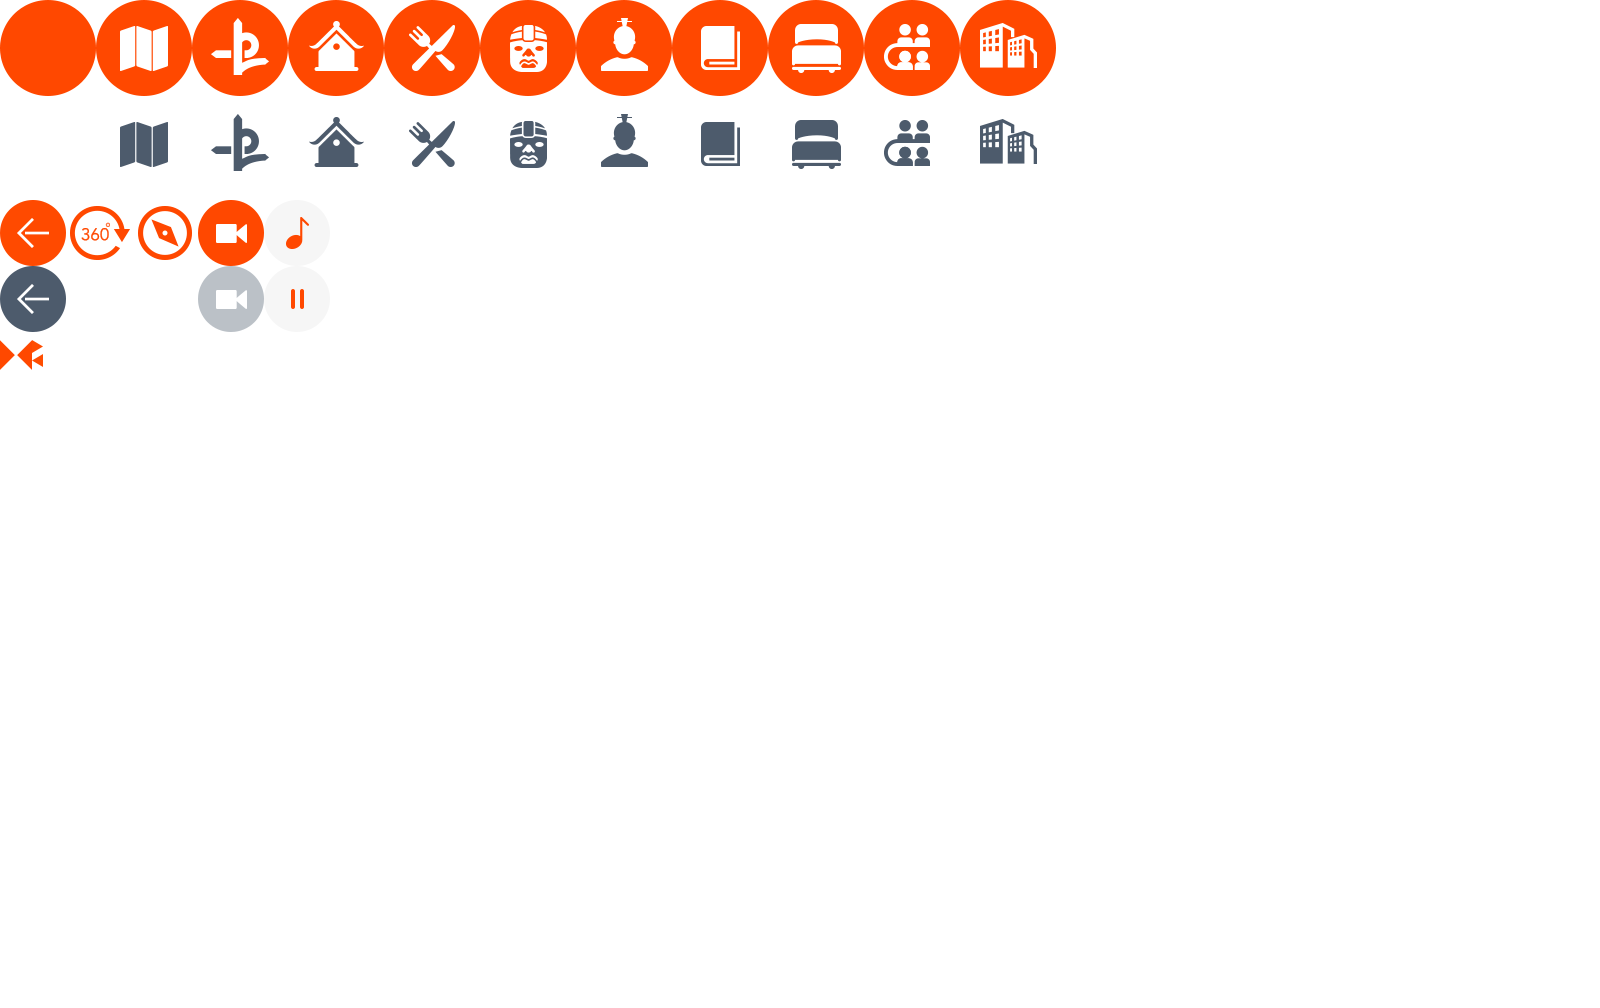
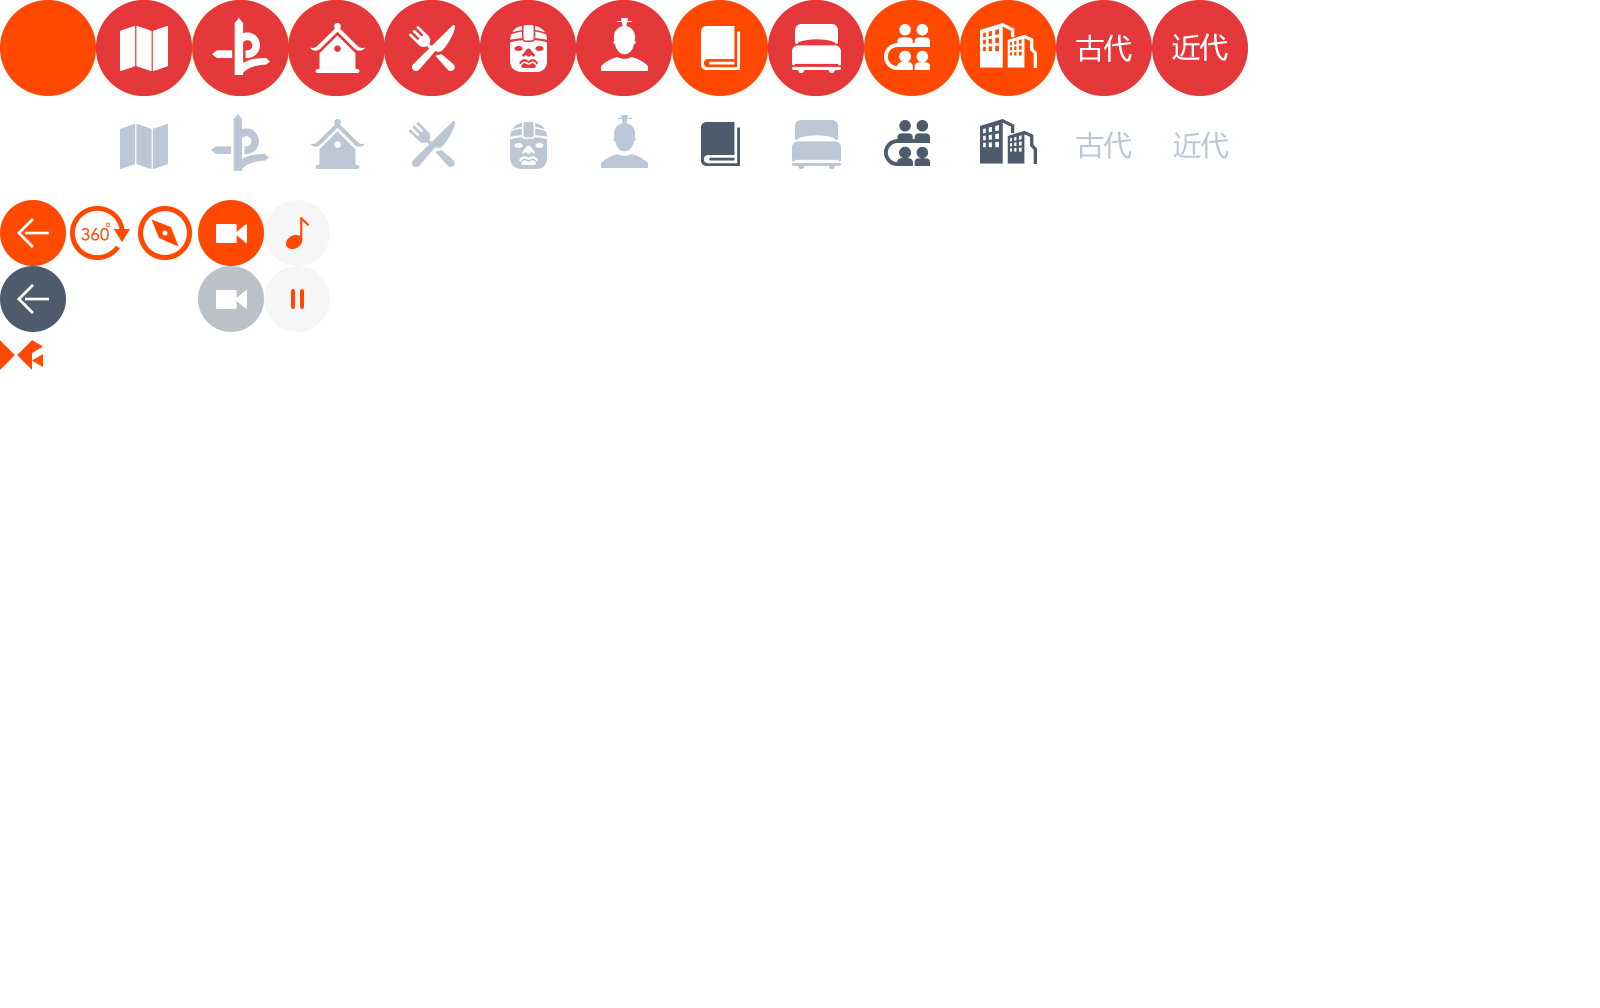
增加切图

diff --git a/luna-web/src/main/webapp/styles/pages_icon.css b/luna-web/src/main/webapp/styles/pages_icon.css
@@ -145,5 +145,120 @@
     background-size: 100% 100%;
 }
 
+.icon-list {
+    width: 48px;
+    height: 48px;
+}
 
+.current .icon-itembg,
+.current.icon-itembg {
+    background-position: 0px 0px;
+    color: #fff;
+}
+
+.icon-profile {
+    background-position: -48px -48px;
+}
+
+.current .icon-profile,
+.current.icon-profile {
+    background-position: -48px 0px;
+}
+
+.icon-traffic {
+    background-position: -96px -48px;
+}
+
+.current .icon-traffic,
+.current.icon-traffic {
+    background-position: -96px 0px;
+}
+
+.icon-celebrity {
+    background-position: -288px -48px;
+}
+
+.current .icon-celebrity,
+.current.icon-celebrity {
+    background-position: -288px 0px;
+}
+
+.icon-nation {
+    background-position: -240px -48px;
+}
+
+.current .icon-nation,
+.current.icon-nation {
+    background-position: -240px 0px;
+}
+
+.icon-culture {
+    background-position: -336px -48px;
+}
+
+.current .icon-culture,
+.current.icon-culture {
+    background-position: -336px 0px;
+}
+
+.icon-spots {
+    background-position: -144px -48px;
+}
+
+.current .icon-spots,
+.current.icon-spots {
+    background-position: -144px 0px;
+}
+
+.icon-food {
+    background-position: -192px -48px;
+}
+
+.current .icon-food,
+.current.icon-food {
+    background-position: -192px 0px;
+}
+
+.icon-hotel {
+    background-position: -384px -48px;
+}
+
+.current .icon-hotel,
+.current.icon-hotel {
+    background-position: -384px 0px;
+}
+
+.icon-activity {
+    background-position: -432px -48px;
+}
+
+.current .icon-activity,
+.current.icon-activity {
+    background-position: -432px 0px;
+}
+
+.icon-area {
+    background-position: -480px -48px;
+}
+
+.current .icon-area,
+.current.icon-area {
+    background-position: -480px 0px;
+}
+.icon-ancient {
+    background-position: -528px -48px;
+}
+
+.current .icon-ancient,
+.current.icon-ancient {
+    background-position: -528px 0px;
+}
+.icon-modern {
+    background-position: -576px -48px;
+}
+
+.current .icon-modern,
+.current.icon-modern {
+    background-position: -576px 0px;
+}
 /* Tab Icon End*/

diff --git a/luna-web/src/main/webapp/styles/pages.css b/luna-web/src/main/webapp/styles/pages.css
@@ -949,106 +949,6 @@ a.wj-img-clc {
     background-color: grue;
 }
 
-.icon-list {
-    width: 48px;
-    height: 48px;
-}
-
-.current .icon-itembg,
-.current.icon-itembg {
-    background-position: 0px 0px;
-    color: #fff;
-}
-
-.icon-profile {
-    background-position: -48px -48px;
-}
-
-.current .icon-profile,
-.current.icon-profile {
-    background-position: -48px 0px;
-}
-
-.icon-traffic {
-    background-position: -96px -48px;
-}
-
-.current .icon-traffic,
-.current.icon-traffic {
-    background-position: -96px 0px;
-}
-
-.icon-celebrity {
-    background-position: -288px -48px;
-}
-
-.current .icon-celebrity,
-.current.icon-celebrity {
-    background-position: -288px 0px;
-}
-
-.icon-nation {
-    background-position: -240px -48px;
-}
-
-.current .icon-nation,
-.current.icon-nation {
-    background-position: -240px 0px;
-}
-
-.icon-culture {
-    background-position: -336px -48px;
-}
-
-.current .icon-culture,
-.current.icon-culture {
-    background-position: -336px 0px;
-}
-
-.icon-spots {
-    background-position: -144px -48px;
-}
-
-.current .icon-spots,
-.current.icon-spots {
-    background-position: -144px 0px;
-}
-
-.icon-food {
-    background-position: -192px -48px;
-}
-
-.current .icon-food,
-.current.icon-food {
-    background-position: -192px 0px;
-}
-
-.icon-hotel {
-    background-position: -384px -48px;
-}
-
-.current .icon-hotel,
-.current.icon-hotel {
-    background-position: -384px 0px;
-}
-
-.icon-activity {
-    background-position: -432px -48px;
-}
-
-.current .icon-activity,
-.current.icon-activity {
-    background-position: -432px 0px;
-}
-
-.icon-area {
-    background-position: -480px -48px;
-}
-
-.current .icon-area,
-.current.icon-area {
-    background-position: -480px 0px;
-}
 
 .pop-uploadMenuTabIcon .item-wrap{
     width: 400px;

diff --git a/luna-web/src/main/webapp/scripts/page_controller.js b/luna-web/src/main/webapp/scripts/page_controller.js
@@ -724,6 +724,18 @@ function MenuTabController($scope, $rootScope, $http, customerMenuTabIcon) {
             defaultStyle: { bgPosition: ['-384px', '-48px'], bgSize: ['800px', '504px'] },
             currentStyle: { bgPosition: ['-384px', '-0px'], bgSize: ['800px', '504px'] },
         }, {
+            name: '古代',
+            code: 'ancient',
+            type: 'default',
+            defaultStyle: { bgPosition: ['-384px', '-48px'], bgSize: ['800px', '504px'] },
+            currentStyle: { bgPosition: ['-384px', '-0px'], bgSize: ['800px', '504px'] },
+        }, {
+            name: '近代',
+            code: 'modern',
+            type: 'default',
+            defaultStyle: { bgPosition: ['-384px', '-48px'], bgSize: ['800px', '504px'] },
+            currentStyle: { bgPosition: ['-384px', '-0px'], bgSize: ['800px', '504px'] },
+        }, {
             name: '自定义图标',
             code: 'customer',
             type: 'customer',
